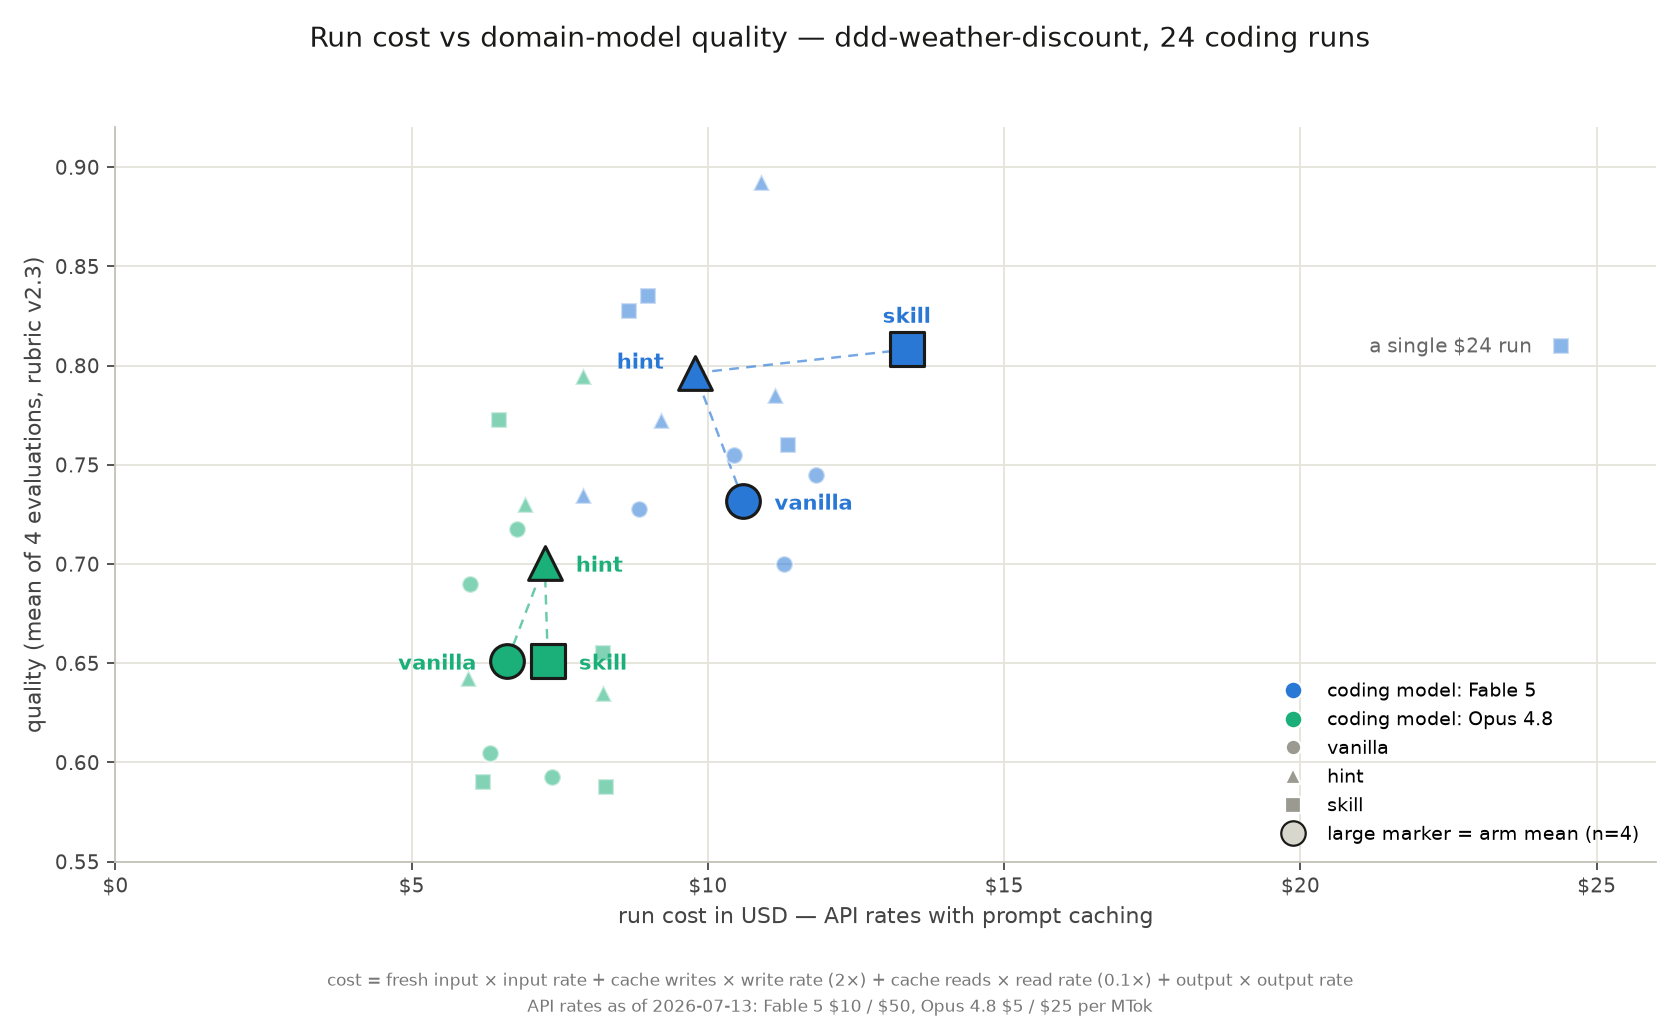
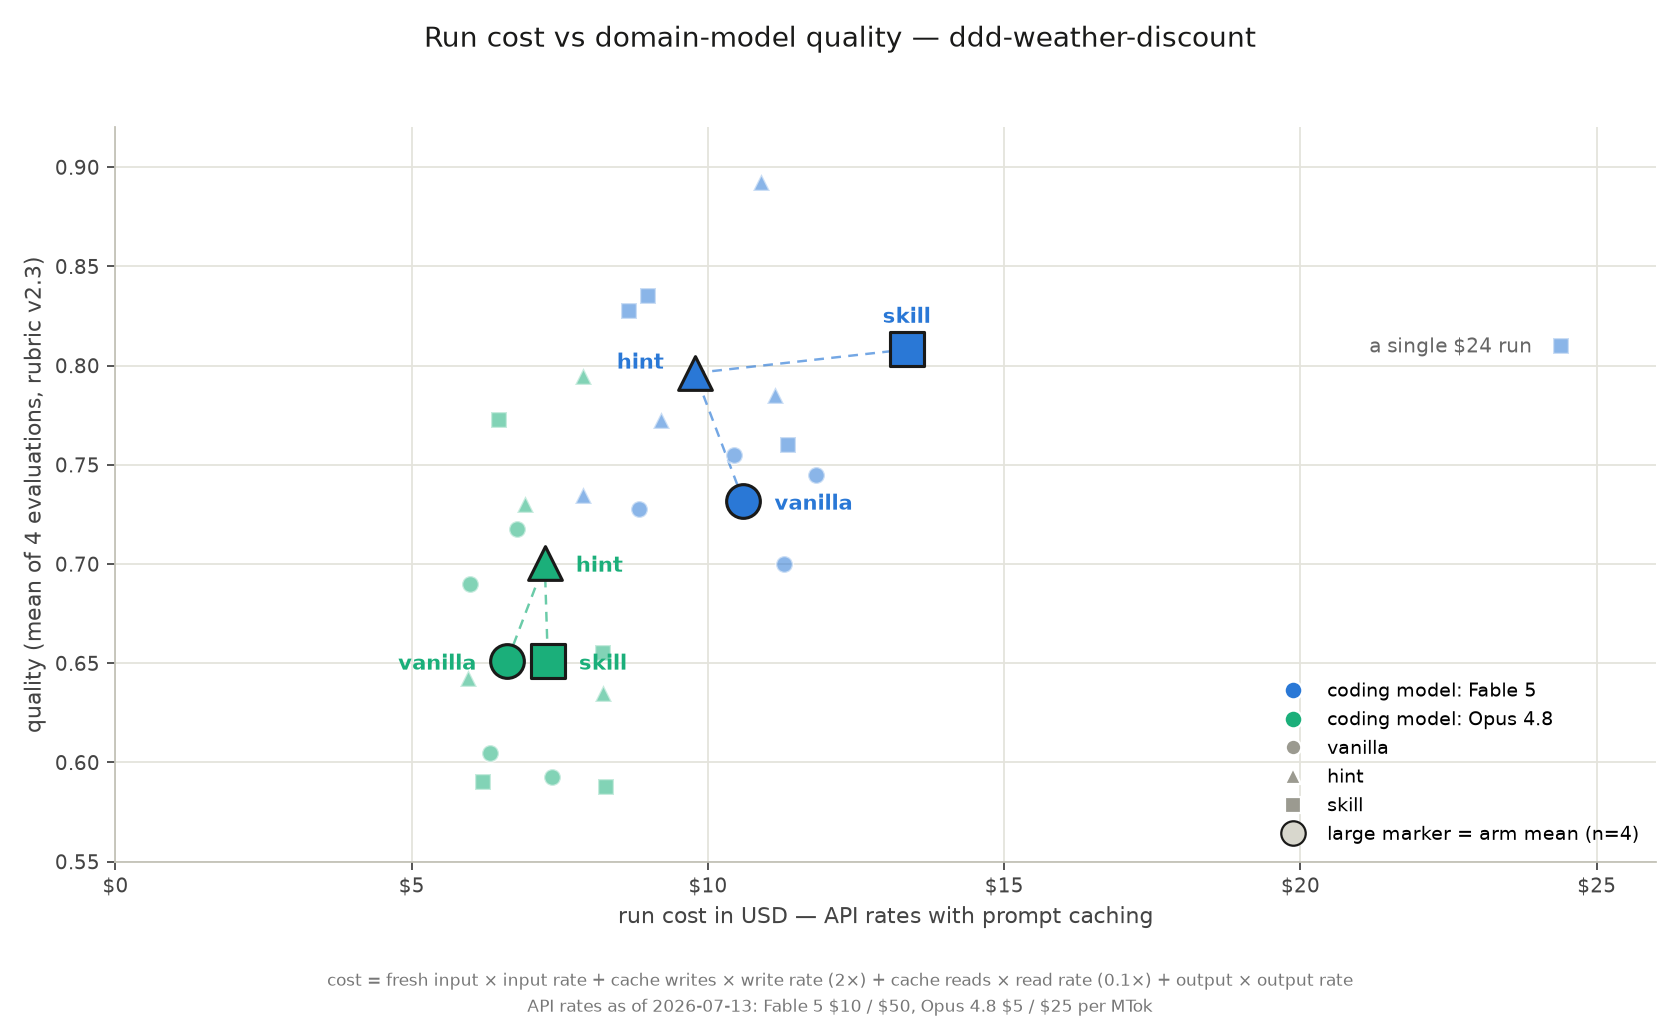
viz: drop run count from cost-quality chart title
Claude-Session: https://claude.ai/code/session_0112rjaT9dWVPXhqm2FCQQPh

Changed region(s): [[0.1857, 0.0312, 0.8048, 0.0625]]

diff --git a/examples/ddd-architectural-challenges/cost_quality_plane.py b/examples/ddd-architectural-challenges/cost_quality_plane.py
@@ -34,7 +34,7 @@ INK = "#1a1a19"
 
 TEXT = {
     "pl": {
-        "title": "Koszt runu a jakość modelu domenowego — ddd-weather-discount, 24 runy kodujące",
+        "title": "Koszt runu a jakość modelu domenowego — ddd-weather-discount",
         "xlabel": "koszt runu w USD — stawki API z rozliczeniem prompt cache",
         "ylabel": "jakość (średnia 4 ewaluacji, rubryka v2.3)",
         "coder": "model kodujący",
@@ -50,7 +50,7 @@ TEXT = {
         "out": "cost_quality_plane.png",
     },
     "en": {
-        "title": "Run cost vs domain-model quality — ddd-weather-discount, 24 coding runs",
+        "title": "Run cost vs domain-model quality — ddd-weather-discount",
         "xlabel": "run cost in USD — API rates with prompt caching",
         "ylabel": "quality (mean of 4 evaluations, rubric v2.3)",
         "coder": "coding model",
